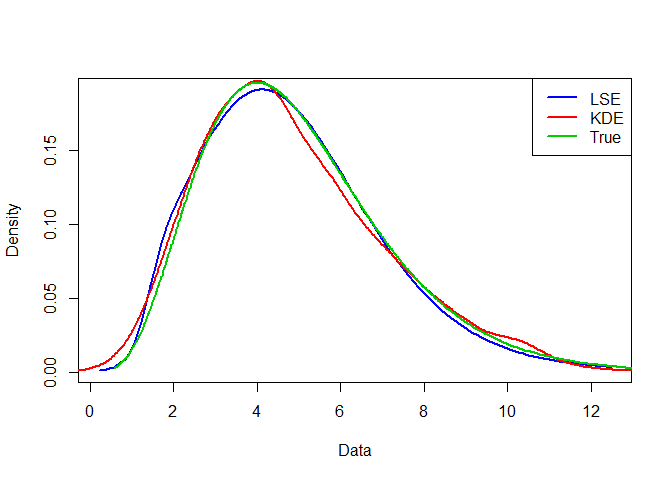
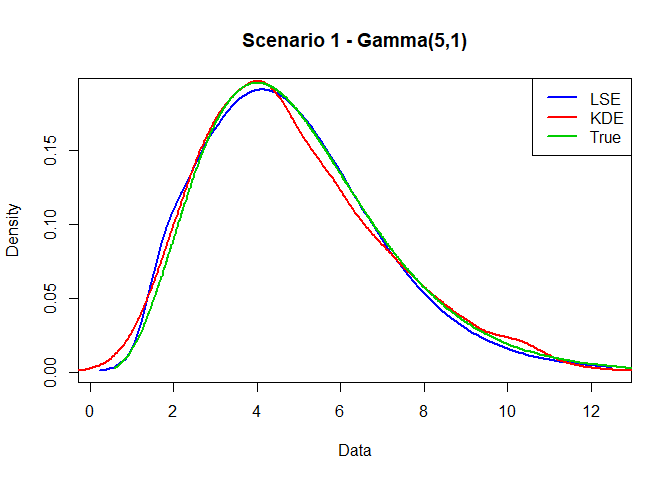
add title

Changed region(s): [[0.3438, 0.0625, 0.7188, 0.125]]

diff --git a/Main.md b/Main.md
@@ -23,14 +23,15 @@ for(i in seq_len(1000)) {
 }
 ```
 
-Scenario 1 - Normal(0,1)
+Scenario 1 - Gamma(5,1)
 
 ``` r
 #LSE(blue)
 plot.logspline(logspline(x1), 
                col='blue', lwd=2, 
                xlab="Data", 
-               ylab="Density")
+               ylab="Density",
+               main="Scenario 1 - Gamma(5,1)")
 
 #KDE(red)
 bw_1 = bw.bcv(x1)
@@ -49,14 +50,15 @@ legend(x="topright",
 
 ![](Main_files/figure-gfm/Sc1-1.png)<!-- -->
 
-Scenario 2 - Beta(2,3)
+Scenario 2 - Exp(0.5)
 
 ``` r
 #LSE(blue)
 plot.logspline(logspline(x2), 
                col='blue', lwd=2, 
                xlab="Data", 
-               ylab="Density")
+               ylab="Density",
+               main="Scenario 2 - Exp(0.5)")
 
 #KDE(red)
 bw_2 = bw.bcv(x2)
@@ -82,7 +84,8 @@ Scenario 3 - Mixed
 plot.logspline(logspline(x3), 
                col='blue', lwd=2, 
                xlab="Data", 
-               ylab="Density")
+               ylab="Density",
+               main="Scenario 3 - Mixed")
 
 #KDE(red)
 bw_3 = bw.bcv(x3)
